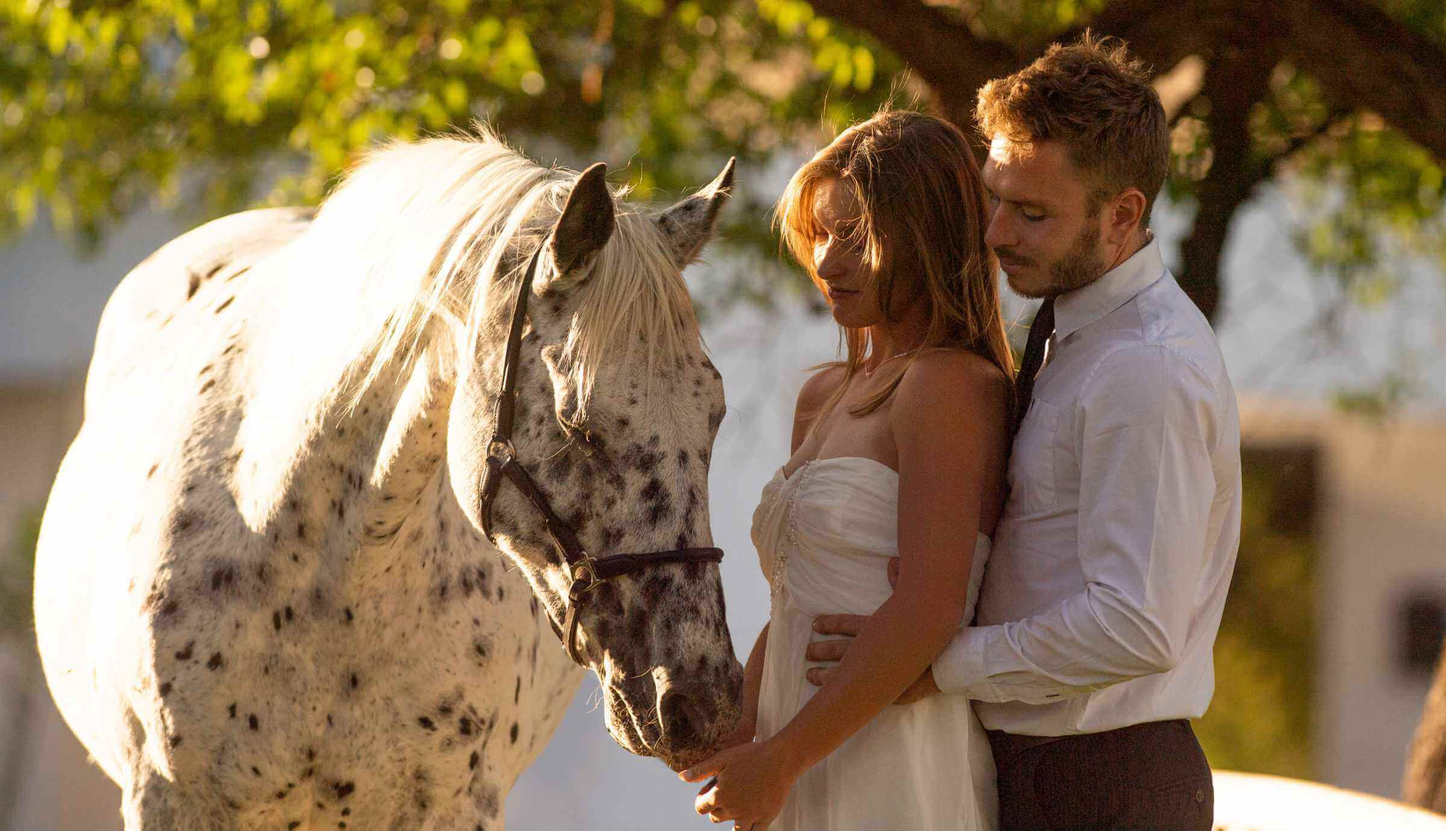
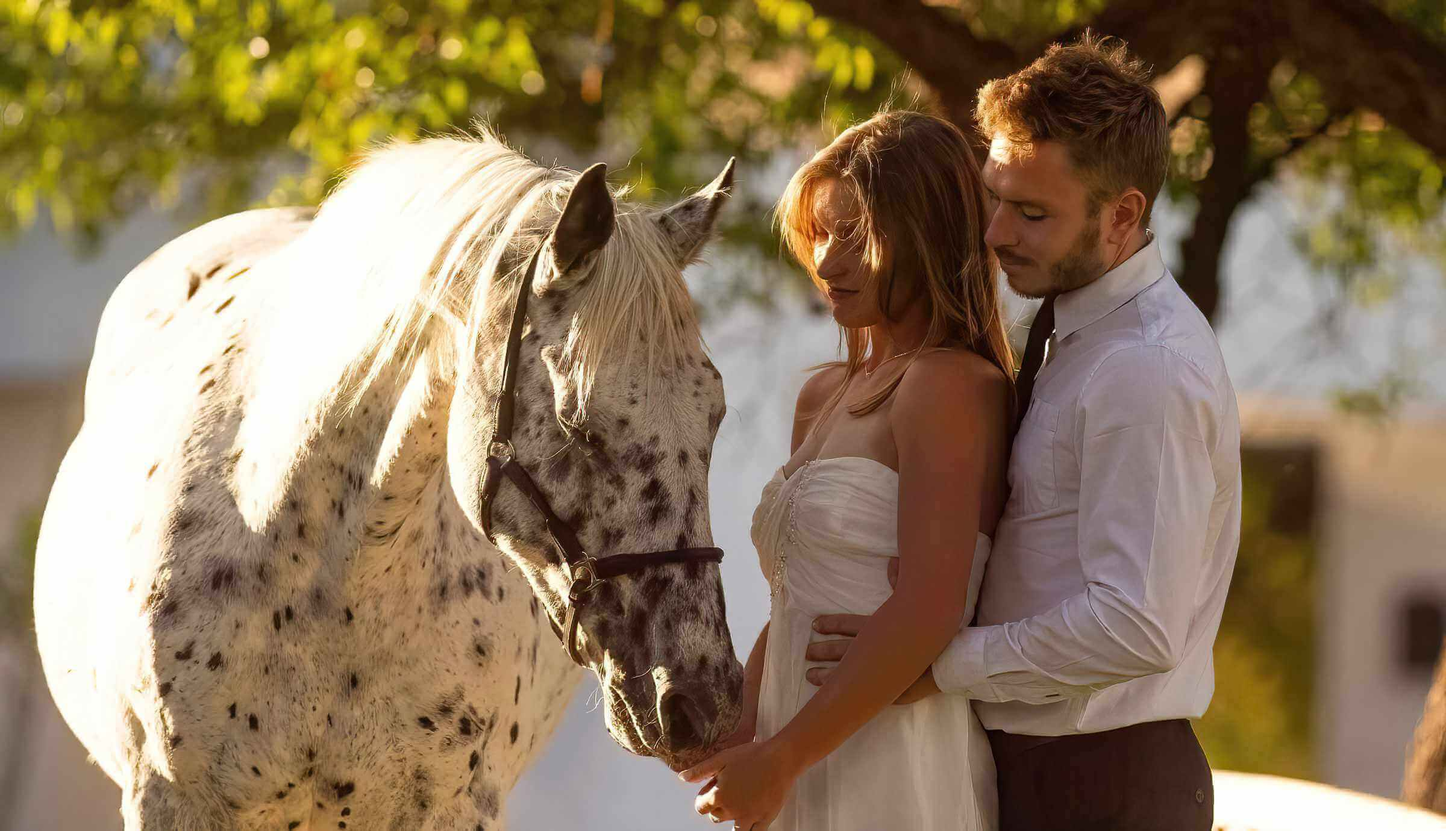
enquirey btn added and wedding head image altered

diff --git a/events_weddings/index.html b/events_weddings/index.html
@@ -196,6 +196,8 @@
       embark on your journey of love in the tranquil embrace of Sandwerf.
     </p>
 
+    <a href="../contact/#contact-form" id="retreat-link"><button class="b-3" id="retreat-btn">Enquiries</button></a>
+
     <div class="full-container-img">
       <img srcset="../assets/images/events-images/sw_events_wedding_5_900.jpg 900w,
               ../assets/images/events-images/sw_events_wedding_5_1800.jpg 1800w"

diff --git a/events_corporate_functions/index.html b/events_corporate_functions/index.html
@@ -198,6 +198,8 @@
       nature with the professionalism your event deserves.
     </p>
 
+    <a href="../contact/#contact-form" id="retreat-link"><button class="b-3" id="retreat-btn">Enquiries</button></a>
+
     <div class="full-container-img">
       <img srcset="../assets/images/events-images/sw_events_corp-functions_5_900.jpg 900w,
               ../assets/images/events-images/sw_events_corp-functions_5_1800.jpg 1800w"

diff --git a/events_work_shops/index.html b/events_work_shops/index.html
@@ -195,6 +195,9 @@
       immersive and transformative workshop experience.
     </p>
 
+    <a href="../contact/#contact-form" id="retreat-link"><button class="b-3" id="retreat-btn">Enquiries</button></a>
+
+
     <div class="full-container-img">
       <img srcset="../assets/images/events-images/sw_events_workshop_5_900.jpg 900w,
               ../assets/images/events-images/sw_events_workshop_5_1800.jpg 1800w"
